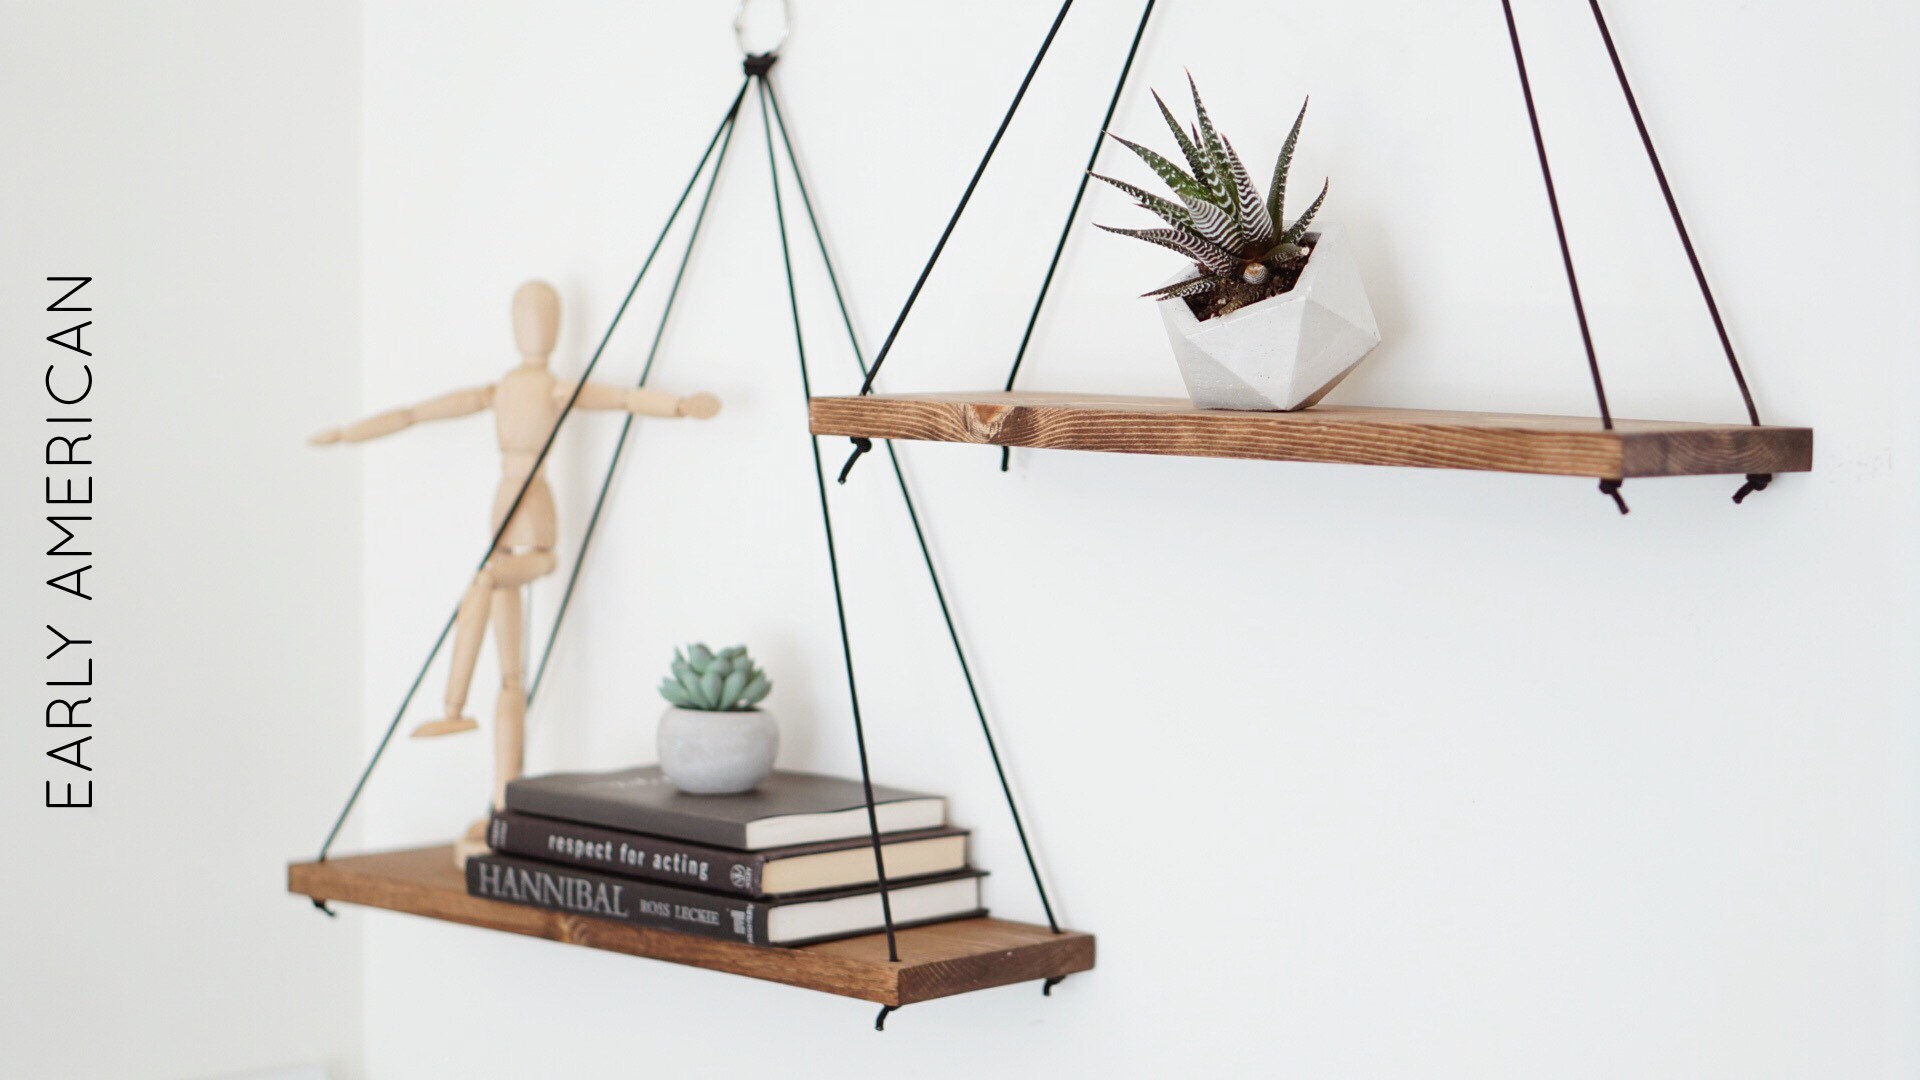
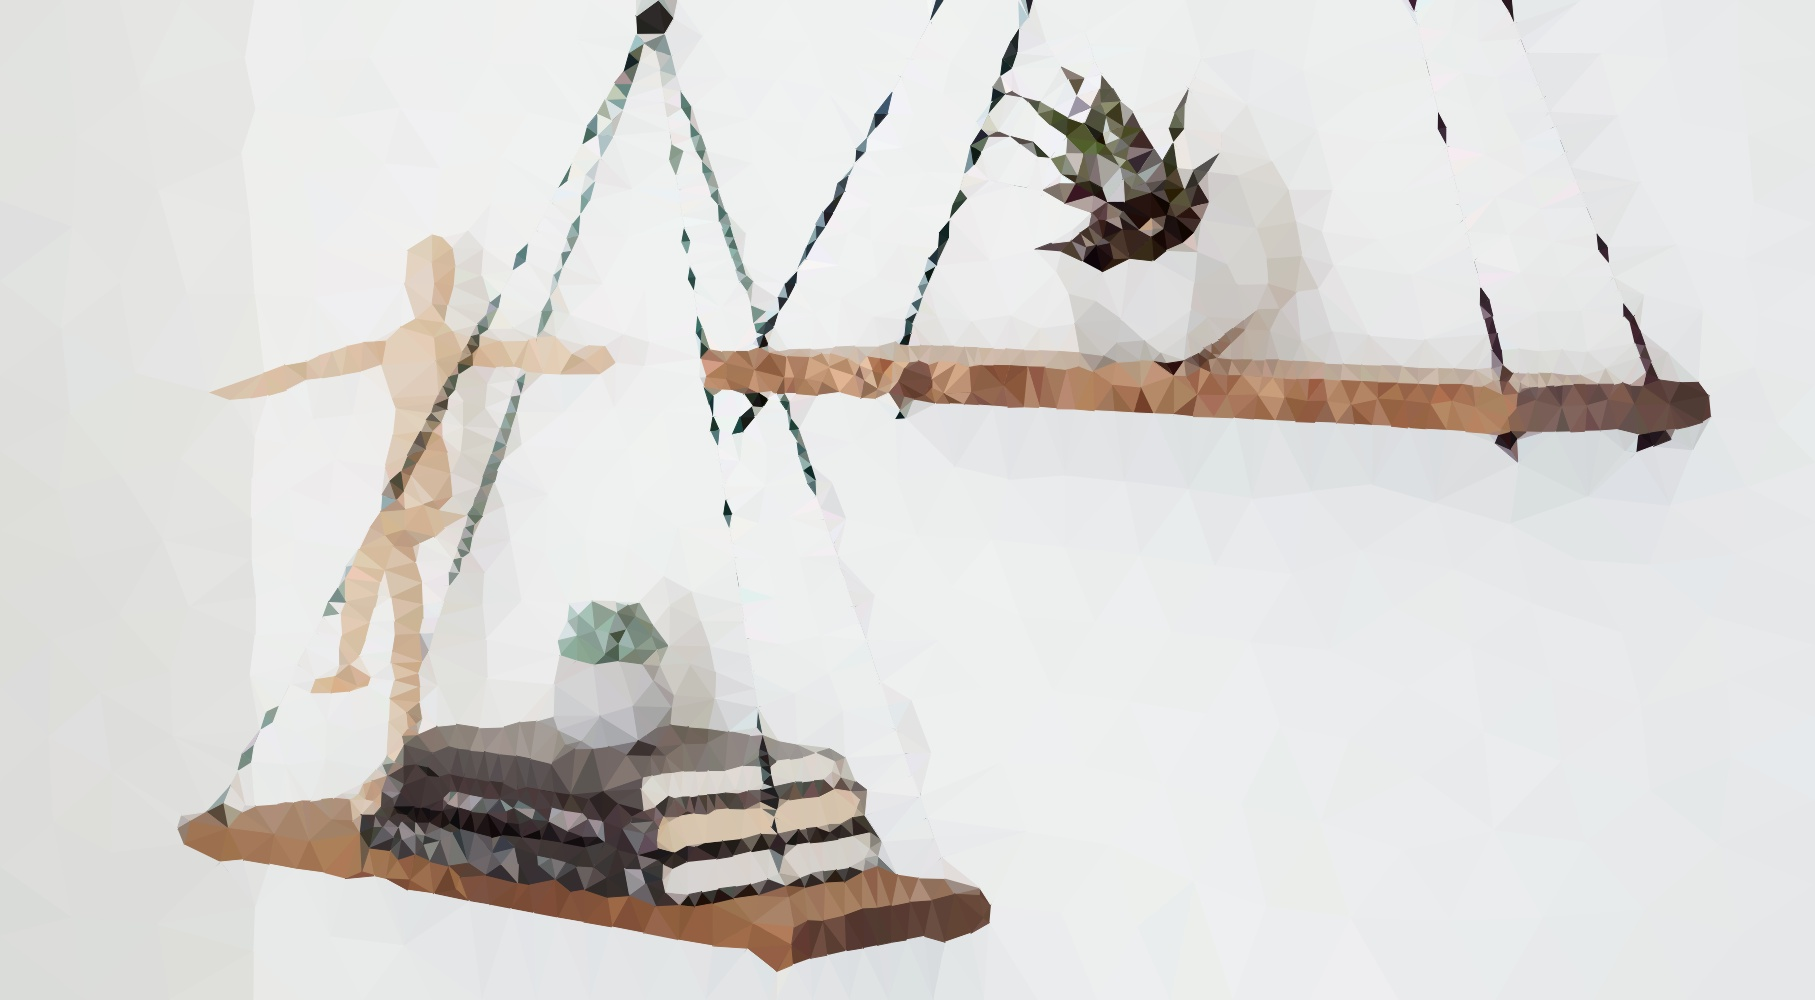
update

diff --git a/css/normalize.css b/css/normalize.css
@@ -461,4 +461,10 @@ th {
   background-image: url('../images/values-bg.jpg');
   background-size: cover;
   padding-bottom: 5rem;
+
+}
+
+.backpic {
+	 -webkit-filter: blur(5px); /* Safari 6.0 - 9.0 */
+  filter: blur(5px);
 }
